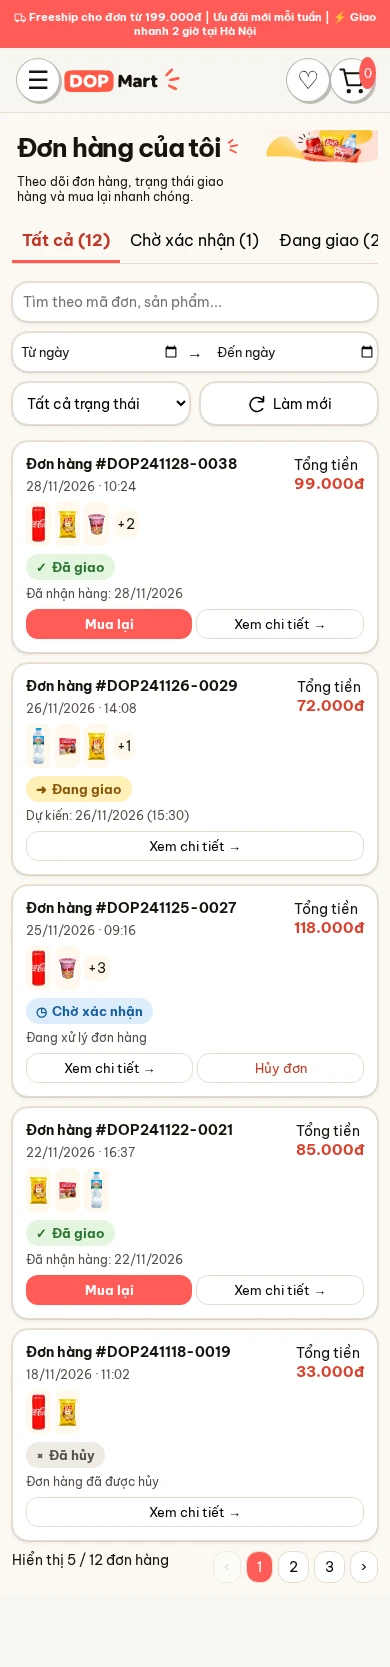
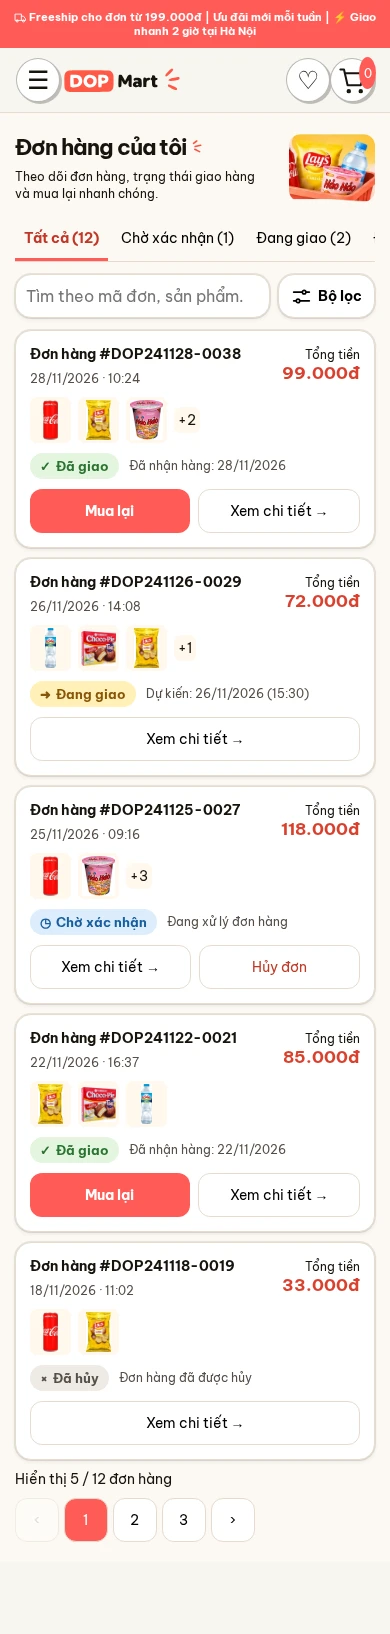
Polish mobile order cards and collapse secondary filters on phones

Changed region(s): [[0.0308, 0.0, 0.9846, 0.9676], [0.5846, 0.0, 0.6462, 0.0312]]

diff --git a/storefront-ui/homepage/css/pages/orders.css b/storefront-ui/homepage/css/pages/orders.css
@@ -55,3 +55,36 @@
 
 .header .actions #cart{position:relative;display:inline-grid;place-items:center}
 .header .actions #cart .cart-count{position:absolute;top:-2px;right:-3px;min-width:17px;height:17px;line-height:17px;padding:0 3px}
+
+/* Compact order history: keep the first order in view, with optional filter controls. */
+.filters .mobile-filter-toggle{display:none}
+@media(max-width:600px){
+ .orders-layout{padding:12px clamp(12px,3.8vw,18px) max(20px,env(safe-area-inset-bottom))}
+ .history-hero{min-height:92px;padding:4px 0 10px;align-items:center;gap:8px}
+ .history-hero h1{font-size:clamp(21px,5.75vw,26px);line-height:1.22}
+ .history-hero p{margin:6px 0 0;font-size:12px;line-height:1.45}
+ .history-hero img{width:24%;height:68px;object-fit:cover;object-position:74% center;border-radius:12px}
+ #tabs{margin:0 0 12px;gap:4px;scroll-padding-inline:4px}
+ #tabs button{min-height:44px;padding:8px 9px;font-size:14px}
+ .filters{grid-template-columns:minmax(0,1fr) auto;gap:8px;margin:0 0 12px}
+ .filters>input{grid-column:1;font-size:16px;min-height:44px}
+ .filters .mobile-filter-toggle{display:inline-flex;min-height:44px;padding:0 12px;font-weight:600}
+ .filters:not(.filters-open) :is(.dates,#order-state,#order-reset){display:none}
+ .filters .dates{grid-column:1/-1;padding-inline:6px}
+ .filters :is(select,#order-reset,.date-field input){min-height:44px}
+ .filters select,.date-field input{font-size:16px}
+ .order{grid-template-columns:minmax(0,1fr) auto;grid-template-areas:"identity price" "products products" "status status" "actions actions";gap:10px;padding:14px;border-radius:16px}
+ .order>div:first-child{grid-area:identity;min-width:0}
+ .order>div:first-child b{font-size:clamp(13px,3.65vw,16px);overflow-wrap:anywhere;line-height:1.35}
+ .order>div:nth-child(3){grid-area:price;text-align:right;font-size:12px}
+ .order>div:nth-child(3) strong{font-size:17px;line-height:1.35}
+ .order .thumbs{grid-area:products;gap:7px}
+ .order .thumbs img{width:41px;height:46px;padding:3px}
+ .order>div:nth-child(4){grid-area:status;display:flex;align-items:center;flex-wrap:wrap;gap:5px 10px}
+ .order small{font-size:12px;line-height:1.4}
+ .order>div:nth-child(4) small{margin:0}
+ .order .actions-row{grid-area:actions;gap:8px}
+ .order .actions-row button{min-height:44px;font-size:14px;flex:1}
+ .pager{align-items:center;flex-wrap:wrap;row-gap:10px}.pager button{min-width:44px;min-height:44px}
+ #detail{max-width:calc(100vw - 32px);max-height:80svh;overflow:auto}
+}

diff --git a/storefront-ui/homepage/orders.html b/storefront-ui/homepage/orders.html
@@ -7,7 +7,7 @@
  </aside>
  <section class="history"><header class="history-hero"><div><h1>Đơn hàng của tôi</h1><p>Theo dõi đơn hàng, trạng thái giao hàng và mua lại nhanh chóng.</p></div><img alt="" src="assets/images/orders/order-banner.webp"></header>
  <nav id="tabs" aria-label="Trạng thái đơn hàng"></nav>
- <form class="filters" id="filters"><input type="search" name="query" aria-label="Tìm theo mã đơn hoặc sản phẩm" placeholder="Tìm theo mã đơn, sản phẩm..."><div class="dates"><label class="date-field"><span>Từ ngày</span><input type="date" name="from" aria-label="Từ ngày"></label><span>→</span><label class="date-field"><span>Đến ngày</span><input type="date" name="to" aria-label="Đến ngày"></label></div><select name="state" aria-label="Trạng thái"></select><button type="reset"><svg aria-hidden="true" viewBox="0 0 24 24" fill="none" stroke="currentColor" stroke-width="1.8" stroke-linejoin="round" stroke-linecap="round"><path d="M20 10A8 8 0 1 0 19 18M20 4v6h-6"/></svg> Làm mới</button></form>
+ <form class="filters" id="filters"><input type="search" name="query" aria-label="Tìm theo mã đơn hoặc sản phẩm" placeholder="Tìm theo mã đơn, sản phẩm..."><button type="button" class="mobile-filter-toggle" aria-expanded="false" aria-label="Bộ lọc đơn hàng" aria-controls="order-dates order-state order-reset"><svg aria-hidden="true" viewBox="0 0 24 24" fill="none" stroke="currentColor" stroke-width="1.8" stroke-linecap="round"><path d="M3 7h10m4 0h4M3 17h3m4 0h11"/><circle cx="15" cy="7" r="2"/><circle cx="8" cy="17" r="2"/></svg>Bộ lọc</button><div class="dates" id="order-dates"><label class="date-field"><span>Từ ngày</span><input type="date" name="from" aria-label="Từ ngày"></label><span>→</span><label class="date-field"><span>Đến ngày</span><input type="date" name="to" aria-label="Đến ngày"></label></div><select id="order-state" name="state" aria-label="Trạng thái"></select><button id="order-reset" type="reset"><svg aria-hidden="true" viewBox="0 0 24 24" fill="none" stroke="currentColor" stroke-width="1.8" stroke-linejoin="round" stroke-linecap="round"><path d="M20 10A8 8 0 1 0 19 18M20 4v6h-6"/></svg> Làm mới</button></form>
  <div id="list" aria-live="polite"></div><footer class="pager"><span id="count"></span><nav id="pages" aria-label="Trang đơn hàng"></nav></footer>
  </section>
 </main>

diff --git a/storefront-ui/homepage/js/orders.js b/storefront-ui/homepage/js/orders.js
@@ -89,3 +89,9 @@ document.querySelector('#cart').onclick=()=>location.href='cart.html';
 document.querySelector('.menu').onclick=()=>location.href='index.html#categories';
 document.querySelector('.search').oninput=e=>{form.elements.query.value=e.target.value;page=1;render()};
 cartCount();render();
+
+const mobileFilters = form.querySelector('.mobile-filter-toggle');
+mobileFilters.onclick = () => {
+ const open = form.classList.toggle('filters-open');
+ mobileFilters.setAttribute('aria-expanded', String(open));
+};
